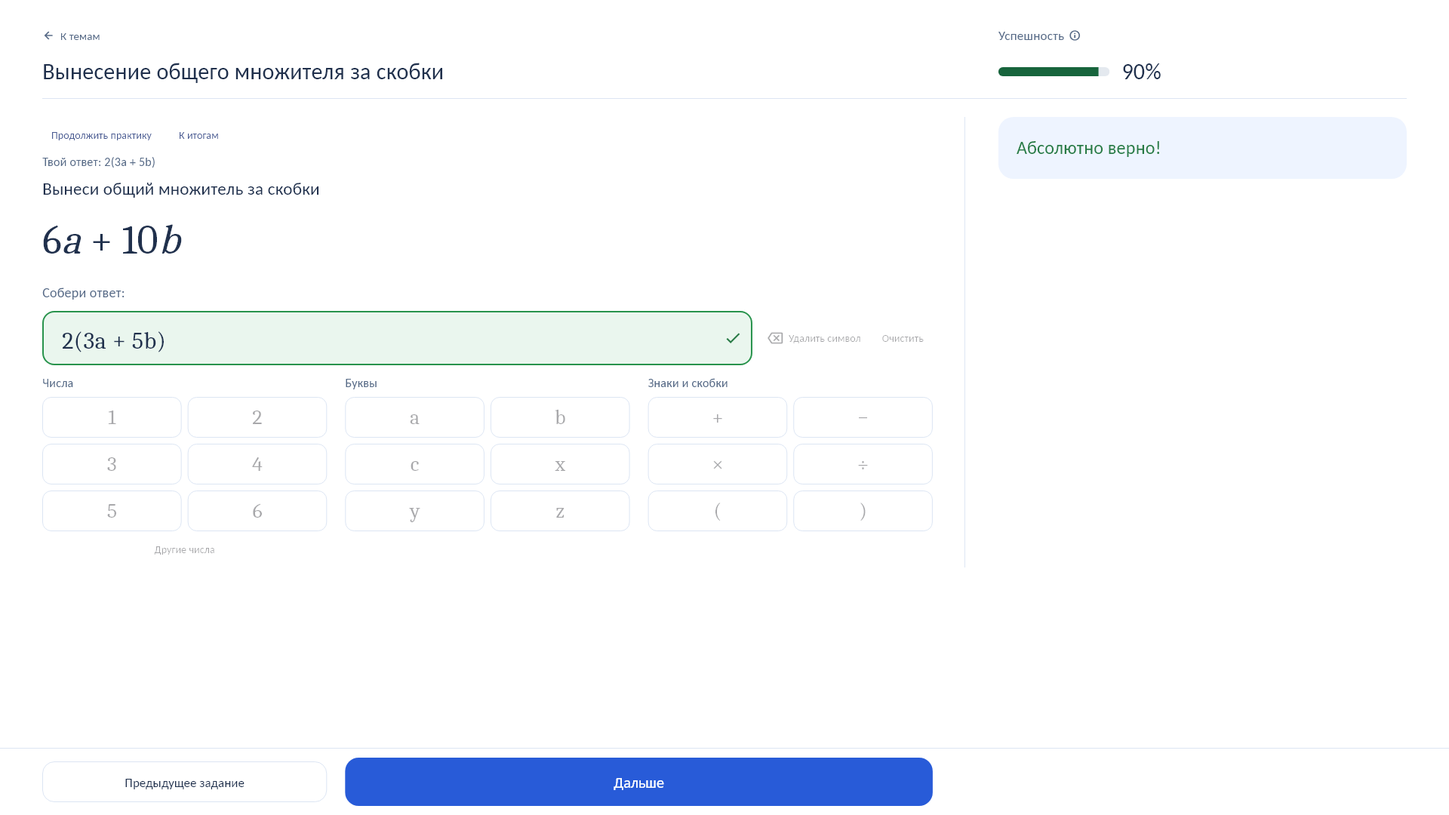
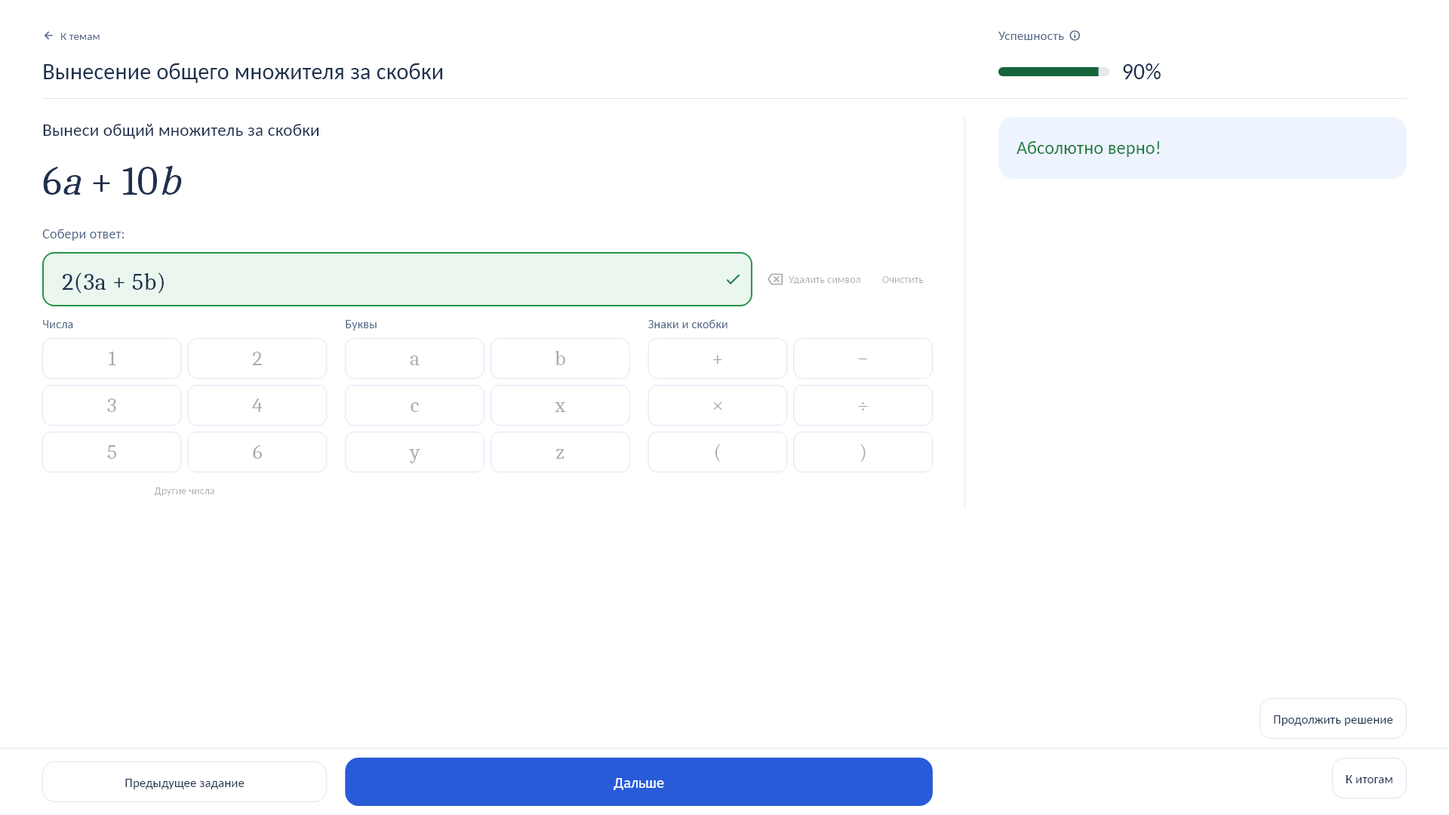
Move history actions to the bottom and remove redundant answer labels

diff --git a/lib/bank_trainer.dart b/lib/bank_trainer.dart
@@ -84,6 +84,34 @@ class _BankTrainerState extends State<BankTrainer> {
     if (finished && session!.checked) _next();
   }
 
+  void _returnToResults() {
+    _saveView();
+    setState(() => page = 'results');
+  }
+
+  Widget _historyAction(BuildContext context, bool wide, bool compact) {
+    final action = Align(
+      alignment: Alignment.centerRight,
+      child: SecondaryAction(
+        key: const ValueKey('bank-return-current'),
+        label: session!.isFinished
+            ? 'Продолжить решение'
+            : 'Вернуться к текущему',
+        compact: compact,
+        onPressed: _returnToPractice,
+      ),
+    );
+    return LayoutBuilder(
+      builder: (context, bounds) => bounds.maxWidth < 720
+          ? action
+          : DemoColumns(
+              wide: wide,
+              left: const SizedBox.shrink(),
+              right: action,
+            ),
+    );
+  }
+
   bool get _complete => isCompleteAnswer(entry.text.replaceAll('·', '×'));
   bool get _unsupportedSymbol =>
       RegExp(r'[^0-9a-zA-Z\s()+−×÷*/·-]').hasMatch(entry.text);
@@ -138,14 +166,31 @@ class _BankTrainerState extends State<BankTrainer> {
           ),
         ),
       );
+      final results = _history && session!.isFinished
+          ? Align(
+              alignment: Alignment.centerRight,
+              child: SecondaryAction(
+                key: const ValueKey('bank-history-results'),
+                label: 'К итогам',
+                compact: compact,
+                onPressed: _returnToResults,
+              ),
+            )
+          : const SizedBox.shrink();
       return LayoutBuilder(
         builder: (context, bounds) => bounds.maxWidth < 720
-            ? left
-            : DemoColumns(
-                wide: wide,
-                left: left,
-                right: const SizedBox.shrink(),
-              ),
+            ? Column(
+                crossAxisAlignment: CrossAxisAlignment.stretch,
+                mainAxisSize: MainAxisSize.min,
+                children: [
+                  left,
+                  if (_history && session!.isFinished) ...[
+                    const SizedBox(height: 8),
+                    results,
+                  ],
+                ],
+              )
+            : DemoColumns(wide: wide, left: left, right: results),
       );
     }
     if (page == 'results') {
@@ -433,35 +478,6 @@ class _BankTrainerState extends State<BankTrainer> {
         child: Column(
           crossAxisAlignment: CrossAxisAlignment.stretch,
           children: [
-            if (_history) ...[
-              Wrap(
-                spacing: 12,
-                children: [
-                  TextButton(
-                    key: const ValueKey('bank-return-current'),
-                    onPressed: _returnToPractice,
-                    child: Text(
-                      s.isFinished
-                          ? 'Продолжить практику'
-                          : 'Вернуться к текущему',
-                    ),
-                  ),
-                  if (s.isFinished)
-                    TextButton(
-                      onPressed: () {
-                        _saveView();
-                        setState(() => page = 'results');
-                      },
-                      child: const Text('К итогам'),
-                    ),
-                ],
-              ),
-              Text(
-                'Твой ответ: ${_record!.answer}',
-                style: screenText(16, c.sub),
-              ),
-              const SizedBox(height: 8),
-            ],
             _text(task.instruction, c, size: compact ? 19 : 23),
             SizedBox(height: compact ? 8 : 18),
             DemoMath(task.expression, size: compact ? 36 : 54, height: 1.2),
@@ -608,11 +624,6 @@ class _BankTrainerState extends State<BankTrainer> {
               const SizedBox(height: 12),
               _text(message, c, size: 16),
             ],
-            if (!_history && s.pendingExtraTasks > 0)
-              Text(
-                'Верных подряд: ${settings.extraTasksPerError - s.pendingExtraTasks} из ${settings.extraTasksPerError}',
-                style: screenText(16, c.sub),
-              ),
           ],
         ),
       ),
@@ -795,6 +806,9 @@ class _BankTrainerState extends State<BankTrainer> {
         );
       }
       return DemoPage(
+        aboveFooterBuilder: page == 'practice' && _history
+            ? _historyAction
+            : null,
         showLabel: page != 'practice',
         label: page == 'results'
             ? 'Итоги'

diff --git a/lib/demo_screens.dart b/lib/demo_screens.dart
@@ -531,6 +531,7 @@ class DemoPage extends StatelessWidget {
     this.showSuccess = false,
     this.visibleScrollbar = false,
     this.footerBuilder,
+    this.aboveFooterBuilder,
     this.successPercent = 0,
     this.onTopics,
     this.scrollKey,
@@ -541,6 +542,7 @@ class DemoPage extends StatelessWidget {
   final bool showSuccess;
   final bool visibleScrollbar;
   final DemoBodyBuilder? footerBuilder;
+  final DemoBodyBuilder? aboveFooterBuilder;
   final double successPercent;
   final VoidCallback? onTopics;
   final Object? scrollKey;
@@ -557,21 +559,48 @@ class DemoPage extends StatelessWidget {
                 final size = MediaQuery.sizeOf(context);
                 final wide = size.width >= 1280;
                 return SafeArea(
-                  child: Container(
-                    key: const ValueKey('demo-footer'),
-                    decoration: BoxDecoration(
-                      color: c.paper,
-                      border: Border(top: BorderSide(color: c.line)),
-                    ),
-                    padding: EdgeInsets.symmetric(
-                      horizontal: wide
-                          ? 56
-                          : size.width < 720
-                          ? 16
-                          : 40,
-                      vertical: 12,
-                    ),
-                    child: footerBuilder!(context, wide, size.height <= 840),
+                  child: Column(
+                    crossAxisAlignment: CrossAxisAlignment.stretch,
+                    mainAxisSize: MainAxisSize.min,
+                    children: [
+                      if (aboveFooterBuilder != null)
+                        Padding(
+                          key: const ValueKey('demo-above-footer'),
+                          padding: EdgeInsets.symmetric(
+                            horizontal: wide
+                                ? 56
+                                : size.width < 720
+                                ? 16
+                                : 40,
+                            vertical: 12,
+                          ),
+                          child: aboveFooterBuilder!(
+                            context,
+                            wide,
+                            size.height <= 840,
+                          ),
+                        ),
+                      Container(
+                        key: const ValueKey('demo-footer'),
+                        decoration: BoxDecoration(
+                          color: c.paper,
+                          border: Border(top: BorderSide(color: c.line)),
+                        ),
+                        padding: EdgeInsets.symmetric(
+                          horizontal: wide
+                              ? 56
+                              : size.width < 720
+                              ? 16
+                              : 40,
+                          vertical: 12,
+                        ),
+                        child: footerBuilder!(
+                          context,
+                          wide,
+                          size.height <= 840,
+                        ),
+                      ),
+                    ],
                   ),
                 );
               },

diff --git a/test/voluntary_finish_test.dart b/test/voluntary_finish_test.dart
@@ -111,13 +111,28 @@ void main() {
                 .onTap,
             isNull,
           );
+          expect(find.textContaining('Твой ответ:'), findsNothing);
+          final footer = find.byKey(const ValueKey('demo-footer'));
+          final backToResults = find.byKey(
+            const ValueKey('bank-history-results'),
+          );
           expect(
-            find.text(
-              'Твой ответ: ${bank.blocks.first.tasks.first.expectedAnswer}',
-            ),
+            find.descendant(of: footer, matching: backToResults),
             findsOneWidget,
           );
-          await tester.tap(find.widgetWithText(TextButton, 'К итогам'));
+          final resultBounds = tester.getRect(backToResults);
+          final continueBounds = tester.getRect(
+            find.byKey(const ValueKey('bank-return-current')),
+          );
+          expect(resultBounds.right, closeTo(size.width - 56, .01));
+          expect(resultBounds.bottom, lessThanOrEqualTo(size.height));
+          expect(
+            continueBounds.bottom,
+            lessThanOrEqualTo(tester.getRect(footer).top),
+          );
+          expect(continueBounds.right, closeTo(resultBounds.right, .01));
+
+          await tester.tap(find.byKey(const ValueKey('bank-history-results')));
           await tester.pumpAndSettle();
           expect(
             find.text('Решено: 9. Пройдено блоков: 9 из 22.'),
@@ -129,6 +144,10 @@ void main() {
           for (var i = 0; i < 8; i++) {
             await tester.tap(find.text('Дальше'));
             await tester.pumpAndSettle();
+            expect(
+              find.byKey(const ValueKey('bank-history-results')),
+              findsOneWidget,
+            );
           }
           expect(find.byKey(const ValueKey('bank-task-9')), findsOneWidget);
           expect(
@@ -138,8 +157,8 @@ void main() {
             isTrue,
           );
           expect(find.text('Проверить себя'), findsNothing);
-          await tester.ensureVisible(find.text('Продолжить практику'));
-          await tester.tap(find.text('Продолжить практику'));
+          await tester.ensureVisible(find.text('Продолжить решение'));
+          await tester.tap(find.text('Продолжить решение'));
           await tester.pumpAndSettle();
           expect(find.byKey(const ValueKey('bank-task-10')), findsOneWidget);
           final field = tester.widget<TextField>(

diff --git a/test/bank_trainer_test.dart b/test/bank_trainer_test.dart
@@ -126,7 +126,7 @@ void main() {
         await tester.pumpAndSettle();
         expect(find.byType(AlertDialog), findsNothing);
         expect(find.text('7a + 7b'), findsOneWidget);
-        expect(find.text('Твой ответ: 7(a+b)'), findsOneWidget);
+        expect(find.textContaining('Твой ответ:'), findsNothing);
         await tester.tap(find.text('Вернуться к текущему'));
         await tester.pumpAndSettle();
         expect(controller.value, draft);
@@ -193,7 +193,7 @@ void main() {
           await tester.tap(find.text('Проверить себя'));
           await tester.pumpAndSettle();
           expect(find.text('Пока не получилось!'), findsOneWidget);
-          expect(find.text('Верных подряд: 0 из 2'), findsOneWidget);
+          expect(find.textContaining('Верных подряд:'), findsNothing);
           await tester.tap(find.text('Узнать, как правильно'));
           await tester.pumpAndSettle();
           expect(find.text('7(a + b)'), findsOneWidget);
@@ -395,14 +395,14 @@ void main() {
       await tester.tap(find.text('Назад к решению'));
       await tester.pumpAndSettle();
       expect(find.byType(AlertDialog), findsNothing);
-      expect(find.text('Твой ответ: 7(a+b)'), findsOneWidget);
+      expect(find.textContaining('Твой ответ:'), findsNothing);
       expect(
         tester
             .widget<TextField>(find.byKey(const ValueKey('bank-answer')))
             .readOnly,
         isTrue,
       );
-      await tester.tap(find.widgetWithText(TextButton, 'К итогам'));
+      await tester.tap(find.byKey(const ValueKey('bank-history-results')));
       await tester.pumpAndSettle();
       expect(find.text('Решено: 1. Пройдено блоков: 1 из 1.'), findsOneWidget);
       expect(tester.takeException(), isNull);

diff --git a/tool/verify_bank_render_test.dart b/tool/verify_bank_render_test.dart
@@ -203,6 +203,20 @@ void main() {
             .readOnly,
         isTrue,
       );
+      final historyFooter = tester.getRect(
+        find.byKey(const ValueKey('demo-footer')),
+      );
+      final resultsAction = tester.getRect(
+        find.byKey(const ValueKey('bank-history-results')),
+      );
+      final continueAction = tester.getRect(
+        find.byKey(const ValueKey('bank-return-current')),
+      );
+      expect(viewport.contains(resultsAction.topLeft), isTrue);
+      expect(viewport.contains(resultsAction.bottomRight), isTrue);
+      expect(continueAction.bottom, lessThanOrEqualTo(historyFooter.top));
+      expect(resultsAction.top, greaterThanOrEqualTo(historyFooter.top));
+      expect(find.textContaining('Твой ответ:'), findsNothing);
       await save('history-input');
     });
   }

diff --git a/test/remedial_streak_test.dart b/test/remedial_streak_test.dart
@@ -56,14 +56,7 @@ void main() {
           await tap(find.byKey(ValueKey('bank-choice-$selected')));
         }
         await tap(find.text('Проверить себя'));
-        if (i == 4) {
-          expect(find.textContaining('Верных подряд:'), findsNothing);
-        } else {
-          expect(
-            find.text('Верных подряд: ${answers[i] ? 1 : 0} из 2'),
-            findsOneWidget,
-          );
-        }
+        expect(find.textContaining('Верных подряд:'), findsNothing);
         await tap(find.text('Дальше'));
       }
       expect(find.text(bank.blocks[1].tasks.first.expression), findsOneWidget);

diff --git a/test/bank_navigation_test.dart b/test/bank_navigation_test.dart
@@ -62,7 +62,7 @@ void main() {
         expect(find.byKey(const ValueKey('bank-task-1')), findsOneWidget);
         expect(find.text('Предыдущее задание'), findsNothing);
         expect(find.text('Пока не получилось!'), findsOneWidget);
-        expect(find.text('Твой ответ: ${firstChoices[wrong]}'), findsOneWidget);
+        expect(find.textContaining('Твой ответ:'), findsNothing);
         expect(find.text('10%'), findsOneWidget);
         await tap(find.text('Дальше'));
         expect(find.byKey(const ValueKey('bank-task-2')), findsOneWidget);

diff --git a/docs/development_status.md b/docs/development_status.md
@@ -486,3 +486,23 @@
 * Анализ без замечаний, полный набор 137 тестов прошёл: проверены сбросы серии, переходы на нескольких блоках двух банков, блокировка повторной отправки и интеграция выбора/ввода с индикатором 0/2 → 1/2 → 0/2 → 1/2 → переход. Перед уточнением README банка перечитан стандарт из main bd655cd: blob fe4618d1277fb8ef48ff7f4bc3287942f6deecac не изменился. Обновление отправляется на публикацию.
 
 * Web-сборка успешна. GitHub Actions 38888011198 прошёл анализ, 137 тестов, сборку и публикацию d55bd58. Публичный main.dart.js отвечает HTTP 200, SHA256 изменился относительно предыдущей версии. Новое правило опубликовано; фактическая визуальная проверка в браузере не выполнялась.
+
+
+## Удаление подписи серии ответов — 16 октября 2026 года
+
+* По просьбе владельца убрана строка «Верных подряд…» под заданием. Правило закрепления двумя правильными подряд и сброс после ошибки сохранены. Обновлены существующие проверки обоих форматов: подпись отсутствует, переход к следующему типу остаётся после двух верных подряд. Код изменён локально; коммит и публикация не выполнялись. Проверки запускаются.
+
+* flutter analyze --no-pub без замечаний, 137 тестов прошли, Web-сборка с /math_trainer/ успешна. Отсутствие подписи и сохранение правила закрепления проверены в выборе и вводе. Изменение готово локально; по договорённости об отдельных разрешениях коммит и обновление сайта ожидают команды владельца.
+
+
+## Возврат к итогам и продолжение внизу экрана — 16 октября 2026 года
+
+* По новому поручению владельца в каждом задании истории завершённой сессии «К итогам» перенесена вправо в закреплённую нижнюю панель. «Продолжить решение» (прежнее «Продолжить практику») расположена справа над ней; при просмотре активной истории там же доступна «Вернуться к текущему». Верхние действия и повторная подпись «Твой ответ» убраны из истории. В отдельном разборе ошибок подпись ответа сохранена.
+* Сохранены прежние ответы, блокировка проверенных заданий, черновик текущего ответа и возврат к тем же итогам. Добавлены проверки размещения и доступности возврата на разных заданиях. Предыдущее локальное удаление подписи серии сохранено. По прямому указанию владельца коммит и публикация не выполняются. Проверки запускаются.
+
+* Финальные flutter analyze --no-pub и полный набор 137 тестов прошли. Все 6 тестов рендера прошли в двух темах при 1366×768, 1920×1080 и 390×844: возврат к итогам находится в нижней панели, продолжение — над ней, обе кнопки доступны в пределах окна; подпись ответа отсутствует. Просмотрены светлый компьютерный и тёмный телефонный снимки истории ввода. Web-сборка с /math_trainer/ успешна. Это проверка виджетов; браузерная визуальная проверка не выполнялась. Изменения готовы локально, Git-коммит и публикация по указанию владельца не выполнялись.
+
+
+## Публикация накопленных изменений — 16 октября 2026 года
+
+* Владелец явно разрешил коммит и обновление сайта. К публикации подготовлены удаление счётчика серии, перенос возврата к итогам в закреплённую нижнюю панель, перенос продолжения/возврата к текущему заданию вниз правой области и удаление повторной подписи ответа. Код после успешных финальных проверок не менялся: analyze, 137 тестов, 6 проверок рендера и Web-сборка прошли. Результат GitHub Actions и внешняя загрузка будут проверены после отправки.

diff --git a/docs/product_requirements.md b/docs/product_requirements.md
@@ -307,4 +307,9 @@ UX §§28–29, 34–35 описывает ожидаемое поведение
 
 ## Два правильных подряд для закрепления типа — 16 октября 2026 года
 
-По поручению владельца общее правило практики для текущей и будущих тем: после ошибки переход к следующему типу задерживается до двух правильных ответов подряд на задания этого типа. Новая ошибка сбрасывает серию до 0 из 2; один правильный даёт 1 из 2; второй подряд закрывает закрепление и открывает дальнейший маршрут. В интерфейсе показывается «Верных подряд: 0 из 2» / «1 из 2». Очередь не растёт при повторных ошибках. Счётчик трёх ошибок подряд остаётся отдельным. Порог добровольного завершения занятия 85% и окно 10 этим не изменяются; завершение занятия и закрепление конкретного типа остаются разными условиями.
+По поручению владельца общее правило практики для текущей и будущих тем: после ошибки переход к следующему типу задерживается до двух правильных ответов подряд на задания этого типа. Новая ошибка сбрасывает серию до 0 из 2; один правильный даёт 1 из 2; второй подряд закрывает закрепление и открывает дальнейший маршрут. Позднее уточнение владельца от 16 октября: серия учитывается внутренне, счётчик «Верных подряд» под заданием не показывается. Очередь не растёт при повторных ошибках. Счётчик трёх ошибок подряд остаётся отдельным. Порог добровольного завершения занятия 85% и окно 10 этим не изменяются; завершение занятия и закрепление конкретного типа остаются разными условиями.
+
+
+## Действия при просмотре решений из итогов — 16 октября 2026 года
+
+По уточнению владельца в каждом просматриваемом задании завершённой сессии справа в закреплённой нижней панели доступна единственная «К итогам». Она возвращает к тем же результатам без изменения попыток и успешности. «Продолжить практику» переименована в «Продолжить решение» и перенесена в нижнюю правую область над панелью. Повторная строка «Твой ответ» в просмотре решений убрана: ответ виден в заблокированном поле или выбранной карточке. При просмотре истории активной практики «Вернуться к текущему» также находится внизу правой области. Тексты ответов в отдельном разборе ошибок сохраняются.

diff --git a/docs/design_spec.md b/docs/design_spec.md
@@ -188,3 +188,8 @@ CSS light-dark задаёт светлую и тёмную версии. HTML в
 ## Компактная шапка задания — 16 октября 2026 года
 
 По поручению владельца нижние края названия темы и процента успешности выровнены. Подпись «Успешность» поднята на строку «К темам» над индикатором. Шкала с процентом находится справа от темы; разделитель приближен к нижнему краю этой строки, всё содержимое ниже поднято. Многострочное название на узком экране выравнивается по нижнему краю процента. Другие экраны с подписью режима сохраняют прежнюю шапку.
+
+
+## Разделение действий истории и итогов — 16 октября 2026 года
+
+В просмотре завершённой практики «К итогам» закреплена справа в нижней панели рядом с навигацией по заданиям. «Продолжить решение» расположена справа над этой панелью, в отдельной нижней строке правой области. На узком экране возврат к итогам занимает нижнюю строку панели с выравниванием вправо; действия остаются доступны при прокрутке. Верхняя строка действий и дублирование «Твой ответ» удалены из истории. Для этого DemoPage поддерживает необязательную строку действий над нижней панелью; остальные экраны без неё сохраняют компоновку.
